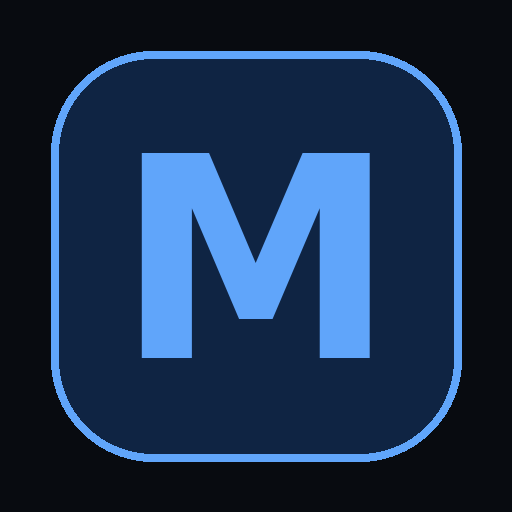
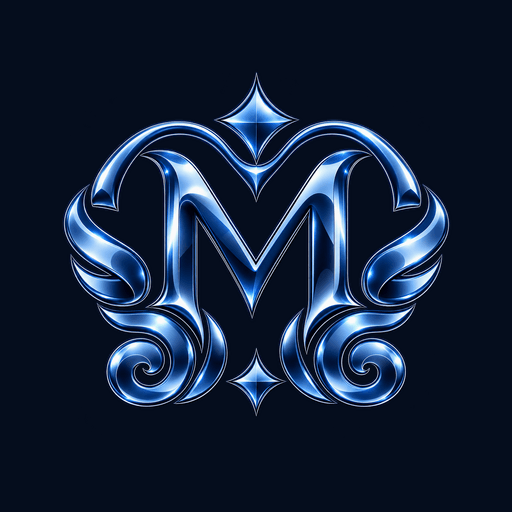
feat: apply new Manisa brand mark

diff --git a/apps/web/src/app/page.tsx b/apps/web/src/app/page.tsx
@@ -3,6 +3,7 @@ import Link from "next/link";
 import { after } from "next/server";
 import { ArrowUpRight, CalendarDays, Instagram, Mail, MapPin, Phone, Scissors, Sparkles } from "lucide-react";
 import { notFound } from "next/navigation";
+import { BrandLogo } from "@/components/brand-logo";
 import { CategoryIcon } from "@/components/category-icon";
 import { getCurrentUser } from "@/lib/auth";
 import { instagramConfigured } from "@/lib/env";
@@ -38,7 +39,7 @@ export async function StudioLanding() {
   const instagramPosts = connection?.posts || [];
 
   return <main className="min-h-screen overflow-hidden bg-[#f5eee6] text-[#30251f]" dir="ltr" lang="en" data-no-translate>
-    <header className="absolute inset-x-0 top-0 z-30 border-b border-white/10 bg-[#211713]/45 text-white shadow-[0_10px_35px_rgba(0,0,0,.12)] backdrop-blur-md"><div className="mx-auto flex max-w-7xl items-center justify-between px-5 py-4 sm:px-8 lg:px-10"><a className="flex items-center gap-3 text-white drop-shadow-sm" href="#top"><span className="flex size-11 items-center justify-center rounded-full bg-white shadow-lg"><Image alt="" height={30} src="/icon.svg" width={30}/></span><span className="text-lg font-semibold tracking-wide">{studio.name}</span></a><nav className="hidden gap-7 text-sm text-white/90 md:flex"><a href="#services">Services</a><a href="#work">Our work</a><a href="#studio">The studio</a><a href="#contact">Contact</a></nav><Link className="inline-flex min-h-10 items-center rounded-full bg-white px-5 text-sm font-semibold shadow-lg transition hover:bg-[#f4d3c0]" href={managementHref} style={{ color: "#30251f" }}>Login</Link></div></header>
+    <header className="absolute inset-x-0 top-0 z-30 border-b border-white/10 bg-[#211713]/45 text-white shadow-[0_10px_35px_rgba(0,0,0,.12)] backdrop-blur-md"><div className="mx-auto flex max-w-7xl items-center justify-between px-5 py-4 sm:px-8 lg:px-10"><a className="flex items-center gap-3 text-white drop-shadow-sm" href="#top"><span className="flex size-12 items-center justify-center rounded-2xl bg-[#071426]/95 shadow-lg ring-1 ring-white/20"><BrandLogo priority size={43}/></span><span className="text-lg font-semibold tracking-wide">{studio.name}</span></a><nav className="hidden gap-7 text-sm text-white/90 md:flex"><a href="#services">Services</a><a href="#work">Our work</a><a href="#studio">The studio</a><a href="#contact">Contact</a></nav><Link className="inline-flex min-h-10 items-center rounded-full bg-white px-5 text-sm font-semibold shadow-lg transition hover:bg-[#f4d3c0]" href={managementHref} style={{ color: "#30251f" }}>Login</Link></div></header>
     <section className="relative min-h-[48rem] bg-[#4b322c]" id="top"><Image alt="Hair stylist working with a client in a warm home studio" className="object-cover object-center" fill priority sizes="100vw" src="/landing/hair-styling.webp"/><div className="absolute inset-0 bg-gradient-to-r from-[#241511]/90 via-[#2b1c17]/60 to-transparent"/><div className="relative mx-auto flex min-h-[48rem] max-w-7xl items-end px-5 pb-20 pt-32 sm:px-8 sm:pb-24 lg:px-10"><div className="max-w-2xl text-white"><p className="mb-5 text-xs font-semibold uppercase tracking-[.28em] text-[#efd6c8]">Private hair & nail studio · Toronto</p><h1 className="font-serif text-5xl leading-[.98] tracking-[-.04em] sm:text-7xl lg:text-[5.6rem]">Beautiful work,<br/>made personal.</h1><p className="mt-7 max-w-xl text-base leading-8 text-white/75 sm:text-lg">{settings?.studioTagline || "Thoughtful hair and nail services in a calm home-studio setting—one appointment, one client, and every detail considered."}</p><div className="mt-9 flex flex-wrap gap-3"><a className="inline-flex min-h-12 items-center gap-2 rounded-full bg-[#f4d3c0] px-6 font-semibold text-[#3b251e] transition hover:bg-white" href={primaryHref}>{primaryLabel}<ArrowUpRight size={17}/></a><a className="inline-flex min-h-12 items-center rounded-full border border-white/35 px-6 font-semibold text-white backdrop-blur transition hover:bg-white/10" href="#services">Explore services</a></div></div></div></section>
     <section className="mx-auto grid max-w-7xl gap-12 px-5 py-20 sm:px-8 lg:grid-cols-[.9fr_1.1fr] lg:px-10 lg:py-28" id="studio"><div className="relative mx-auto aspect-[4/5] w-full max-w-lg"><Image alt="Professional manicure detail" className="rounded-[2.5rem] object-cover shadow-[0_35px_90px_rgba(78,51,42,.22)]" fill sizes="(max-width:1024px) 90vw, 42vw" src="/landing/manicure.webp"/><div className="absolute -bottom-5 -right-3 rounded-2xl bg-[#31483c] p-5 text-[#edf3ee] shadow-xl sm:-right-8"><Sparkles size={20}/><p className="mt-3 max-w-36 text-sm leading-6">Quiet appointments.<br/>Careful technique.<br/>Lasting details.</p></div></div><div className="flex flex-col justify-center lg:pl-10"><p className="text-xs font-semibold uppercase tracking-[.25em] text-[#9a5d48]">A studio that feels like you</p><h2 className="mt-5 font-serif text-4xl leading-tight tracking-[-.035em] sm:text-6xl">Hair, nails, and time that is truly yours.</h2><p className="mt-7 max-w-xl text-base leading-8 text-[#755f54]">{settings?.studioBiography || "Manisa is an appointment-only home studio for people who value a relaxed atmosphere and work tailored to them. From polished nails to refreshed hair, every visit is unhurried and personal."}</p><div className="mt-8 flex flex-wrap gap-5 text-sm text-[#634d43]"><span className="flex items-center gap-2"><CalendarDays size={17}/>Appointment only</span><span className="flex items-center gap-2"><MapPin size={17}/>{settings?.address || fallbackAddress}</span></div></div></section>
     <section className="bg-[#302a27] py-20 text-[#f8f1eb] lg:py-28" id="services"><div className="mx-auto max-w-7xl px-5 sm:px-8 lg:px-10"><div className="max-w-3xl"><p className="text-xs font-semibold uppercase tracking-[.25em] text-[#e8bca9]">Services</p><h2 className="mt-5 font-serif text-4xl tracking-[-.035em] sm:text-6xl">Made for real life,<br/>finished beautifully.</h2></div><div className="mt-12 grid gap-px overflow-hidden rounded-[2rem] bg-white/15 md:grid-cols-2 lg:grid-cols-3">{categories.map((category) => <article className="bg-[#302a27] p-7 sm:p-8" key={category.id}><span className="flex size-11 items-center justify-center rounded-full bg-white/8 text-[#f1c6b4]"><CategoryIcon name={category.icon} size={20}/></span><h3 className="mt-6 text-xl font-semibold" dir="auto">{category.name}</h3><p className="mt-3 min-h-12 text-sm leading-6 text-white/55" dir="auto">{category.description || `${category._count.services} services available.`}</p><div className="mt-5 space-y-2">{category.services.map((service) => <p className="flex items-center gap-2 text-sm text-white/75" dir="auto" key={service.id}><Scissors className="shrink-0 text-[#d9a995]" size={13}/>{service.name}</p>)}</div></article>)}{!categories.length && <p className="bg-[#302a27] p-10 text-white/60">The studio service menu is being prepared.</p>}</div></div></section>
@@ -54,5 +55,5 @@ export default async function Home() {
     prisma.user.count(),
   ]);
   if (studio && setupComplete) return <StudioLanding/>;
-  return <main className="flex min-h-screen items-center justify-center bg-[#f5eee6] px-5 text-[#30251f]" dir="ltr" lang="en"><section className="max-w-lg rounded-[2rem] bg-white p-8 text-center shadow-xl"><Sparkles className="mx-auto" size={28}/><h1 className="mt-5 font-serif text-4xl">Set up Manisa</h1><p className="mt-3 leading-7 text-[#755f54]">Create the sole studio owner and configure your studio.</p><Link className="mt-7 inline-flex min-h-12 items-center gap-2 rounded-full bg-[#30251f] px-6 font-semibold text-white" href={setupComplete ? "/login" : "/setup"}>{setupComplete ? "Sign in" : "Create studio owner"}<ArrowUpRight size={16}/></Link></section></main>;
+  return <main className="flex min-h-screen items-center justify-center bg-[#f5eee6] px-5 text-[#30251f]" dir="ltr" lang="en"><section className="max-w-lg rounded-[2rem] bg-white p-8 text-center shadow-xl"><span className="mx-auto flex size-20 items-center justify-center rounded-2xl bg-[#071426] shadow-lg"><BrandLogo priority size={72}/></span><h1 className="mt-5 font-serif text-4xl">Set up Manisa</h1><p className="mt-3 leading-7 text-[#755f54]">Create the sole studio owner and configure your studio.</p><Link className="mt-7 inline-flex min-h-12 items-center gap-2 rounded-full bg-[#30251f] px-6 font-semibold text-white" href={setupComplete ? "/login" : "/setup"}>{setupComplete ? "Sign in" : "Create studio owner"}<ArrowUpRight size={16}/></Link></section></main>;
 }

diff --git a/apps/web/src/app/invite/[token]/page.tsx b/apps/web/src/app/invite/[token]/page.tsx
@@ -1,6 +1,7 @@
 import { createHash } from "node:crypto";
 import Link from "next/link";
-import { CalendarClock, ShieldCheck, Sparkles } from "lucide-react";
+import { CalendarClock, ShieldCheck } from "lucide-react";
+import { BrandLogo } from "@/components/brand-logo";
 import { InvitationForm } from "@/components/invitation-form";
 import { prisma } from "@/lib/prisma";
 
@@ -9,5 +10,5 @@ export default async function InvitationPage({ params }: { params: Promise<{ tok
   const invitation = await prisma.invitation.findUnique({ where: { tokenHash: createHash("sha256").update(token).digest("hex") }, include: { invitedBy: { select: { name: true } } } });
   const valid = invitation && !invitation.acceptedAt && !invitation.revokedAt && invitation.expiresAt > new Date();
   const existingPasswordAccount = valid ? Boolean((await prisma.user.findUnique({ where: { email: invitation.email }, select: { passwordHash: true } }))?.passwordHash) : false;
-  return <main className="relative flex min-h-screen items-center justify-center overflow-hidden p-4 sm:p-6"><div className="pointer-events-none absolute inset-0 bg-[radial-gradient(circle_at_top_left,rgba(37,99,235,.18),transparent_42%),radial-gradient(circle_at_bottom_right,rgba(14,165,233,.1),transparent_38%)]"/><section className="relative w-full max-w-lg overflow-hidden rounded-3xl border border-blue-300/15 bg-[#0a111d]/95 shadow-2xl"><header className="border-b border-white/8 bg-gradient-to-br from-[#102347] to-[#0b1628] p-6 sm:p-8"><span className="flex size-12 items-center justify-center rounded-2xl border border-blue-300/20 bg-blue-400/10 text-blue-200"><Sparkles size={22}/></span>{valid ? <><p className="mt-5 text-xs font-semibold uppercase tracking-[.18em] text-blue-300">Studio invitation</p><h1 className="mt-2 text-2xl font-semibold sm:text-3xl">Join Manisa</h1><div className="mt-4 flex flex-wrap gap-2 text-xs text-slate-300"><span className="badge"><ShieldCheck size={13}/>{invitation.role.toLowerCase()}</span><span className="badge"><CalendarClock size={13}/>Valid for 72 hours</span></div></> : <><h1 className="mt-5 text-2xl font-semibold">Invitation unavailable</h1><p className="mt-2 text-sm text-slate-400">This link expired, was revoked, or has already been used.</p></>}</header><div className="p-6 sm:p-8">{valid ? <><p className="text-sm text-slate-400">Invited by {invitation.invitedBy.name}. Existing users can enter their current password; new users will create one.</p><InvitationForm email={invitation.email} existingPasswordAccount={existingPasswordAccount} token={token}/></> : <Link className="button w-full" href="/login">Return to sign in</Link>}</div></section></main>;
+  return <main className="relative flex min-h-screen items-center justify-center overflow-hidden p-4 sm:p-6"><div className="pointer-events-none absolute inset-0 bg-[radial-gradient(circle_at_top_left,rgba(37,99,235,.18),transparent_42%),radial-gradient(circle_at_bottom_right,rgba(14,165,233,.1),transparent_38%)]"/><section className="relative w-full max-w-lg overflow-hidden rounded-3xl border border-blue-300/15 bg-[#0a111d]/95 shadow-2xl"><header className="border-b border-white/8 bg-gradient-to-br from-[#102347] to-[#0b1628] p-6 sm:p-8"><Link aria-label="Manisa home" className="flex size-14 items-center justify-center rounded-2xl bg-[#071426] shadow-[inset_0_1px_rgba(255,255,255,.14),0_10px_28px_rgba(0,0,0,.28)]" href="/"><BrandLogo priority size={51}/></Link>{valid ? <><p className="mt-5 text-xs font-semibold uppercase tracking-[.18em] text-blue-300">Studio invitation</p><h1 className="mt-2 text-2xl font-semibold sm:text-3xl">Join Manisa</h1><div className="mt-4 flex flex-wrap gap-2 text-xs text-slate-300"><span className="badge"><ShieldCheck size={13}/>{invitation.role.toLowerCase()}</span><span className="badge"><CalendarClock size={13}/>Valid for 72 hours</span></div></> : <><h1 className="mt-5 text-2xl font-semibold">Invitation unavailable</h1><p className="mt-2 text-sm text-slate-400">This link expired, was revoked, or has already been used.</p></>}</header><div className="p-6 sm:p-8">{valid ? <><p className="text-sm text-slate-400">Invited by {invitation.invitedBy.name}. Existing users can enter their current password; new users will create one.</p><InvitationForm email={invitation.email} existingPasswordAccount={existingPasswordAccount} token={token}/></> : <Link className="button w-full" href="/login">Return to sign in</Link>}</div></section></main>;
 }

diff --git a/apps/web/src/components/app-shell.tsx b/apps/web/src/components/app-shell.tsx
@@ -1,6 +1,7 @@
 import Link from "next/link";
-import { CalendarPlus, LogOut, Settings2, Sparkles } from "lucide-react";
+import { CalendarPlus, LogOut, Settings2 } from "lucide-react";
 import { DesktopNavigation, MobileNavigation } from "@/components/app-navigation";
+import { BrandLogo } from "@/components/brand-logo";
 import { LocaleRuntime } from "@/components/locale-runtime";
 import { NotificationCenter } from "@/components/notification-center";
 import { PageSwipeNavigation } from "@/components/page-swipe-navigation";
@@ -17,13 +18,13 @@ export function AppShell({ children, locale, userName, businessName, mobileNavOr
   const mobileOrder = parseMobileNavigation(mobileNavOrder);
   return <div className="app-background min-h-screen md:grid md:grid-cols-[17rem_1fr]" dir={locale === "fa" ? "rtl" : "ltr"} lang={locale}>
     <aside className="sticky top-0 hidden h-screen border-e border-white/8 bg-[#090d13]/95 p-4 md:flex md:flex-col">
-      <Link href="/report" prefetch={false} className="flex h-14 items-center gap-3 px-2"><span className="flex size-9 items-center justify-center rounded-xl border border-blue-400/25 bg-blue-500/10 text-blue-300 shadow-[inset_0_1px_rgba(255,255,255,.12)]"><Sparkles size={18}/></span><span className="truncate font-semibold">{businessName}</span></Link>
+      <Link href="/report" prefetch={false} className="flex h-14 items-center gap-3 px-2"><span className="flex size-10 shrink-0 items-center justify-center rounded-xl bg-[#071426] shadow-[inset_0_1px_rgba(255,255,255,.14),0_8px_24px_rgba(0,0,0,.3)]"><BrandLogo size={36}/></span><span className="truncate font-semibold">{businessName}</span></Link>
       <DesktopNavigation locale={locale} permissions={permissions}/>
       <div className="mt-auto border-t border-white/8 pt-4"><p className="truncate px-3 text-sm font-medium text-slate-300">{userName}</p><form action={logout}><button className="mt-2 flex w-full items-center gap-3 rounded-xl px-3 py-2.5 text-sm text-slate-500 hover:bg-white/[0.05] hover:text-white"><LogOut size={17}/>{t.signOut}</button></form></div>
     </aside>
     <div className="min-w-0">
       <header className="sticky top-0 z-30 flex h-16 items-center justify-between border-b border-white/8 bg-[#080b10]/88 px-4 backdrop-blur-xl md:px-8">
-        <Link href="/report" prefetch={false} className="flex min-w-0 items-center gap-2 font-semibold md:hidden"><span className="flex size-8 shrink-0 items-center justify-center rounded-lg border border-blue-400/25 bg-blue-500/10 text-blue-300"><Sparkles size={16}/></span><span className="truncate">{businessName}</span></Link>
+        <Link href="/report" prefetch={false} className="flex min-w-0 items-center gap-2 font-semibold md:hidden"><span className="flex size-9 shrink-0 items-center justify-center rounded-lg bg-[#071426]"><BrandLogo size={32}/></span><span className="truncate">{businessName}</span></Link>
         <div className="hidden text-sm text-slate-500 md:block">{new Intl.DateTimeFormat(intlLocale(locale), { dateStyle: "full" }).format(new Date())}</div>
         <div className="flex items-center gap-2"><GlobalSearch permissions={permissions}/><NotificationCenter items={notifications} locale={locale} timezone={timezone}/><Link aria-label={t.settings} className="header-profile" href="/settings" prefetch={false} title={`${t.settings} · ${userName}`}><Settings2 size={17}/><span className="hidden sm:inline">{t.settings}</span></Link><Link href="/appointments/new" prefetch={false} className="button appointment-cta h-10 min-h-10 px-3 sm:px-4"><CalendarPlus size={17}/><span className="hidden min-[520px]:inline">{t.newAppointment}</span></Link></div>
       </header>

diff --git a/apps/web/src/app/(app)/settings/page.tsx b/apps/web/src/app/(app)/settings/page.tsx
@@ -1,5 +1,6 @@
 import Link from "next/link";
-import { ArrowLeftRight, CalendarClock, CalendarSync, ChevronRight, GitFork, Images, Instagram, Layers3, LogOut, Settings2, ShieldCheck, SlidersHorizontal, Sparkles, SwatchBook, Trash2, UserRound, UsersRound, WalletCards, UserCog } from "lucide-react";
+import { ArrowLeftRight, CalendarClock, CalendarSync, ChevronRight, GitFork, Images, Instagram, Layers3, LogOut, Settings2, ShieldCheck, SlidersHorizontal, SwatchBook, Trash2, UserRound, UsersRound, WalletCards, UserCog } from "lucide-react";
+import { BrandLogo } from "@/components/brand-logo";
 import { PageHeading } from "@/components/page-heading";
 import { requireUser } from "@/lib/auth";
 import { prisma } from "@/lib/prisma";
@@ -55,6 +56,6 @@ export default async function SettingsPage() {
       {groups.map((group) => { const visibleItems = group.items.filter(([href]) => !requiredPermission[href] || hasBusinessPermission(user.role, user.permissionOverrides, requiredPermission[href])); return visibleItems.length ? <section key={group.title}><h2 className="mb-2 px-2 text-xs font-semibold uppercase tracking-[.16em] text-slate-500">{group.title}</h2><div className="overflow-hidden rounded-2xl border border-white/10 bg-[#0d131d] shadow-[0_16px_40px_rgba(0,0,0,.16)]">{visibleItems.map(([href, label, , Icon], index) => <Link className={`group flex items-center gap-3 px-4 py-3.5 transition hover:bg-blue-500/[0.07] active:bg-blue-500/[0.12] sm:px-5 ${index ? "border-t border-white/8" : ""}`} href={contextualDestinations.has(href) ? `${href}?from=settings` : href} key={href}><span className="flex size-10 shrink-0 items-center justify-center rounded-xl border border-blue-400/12 bg-blue-500/8 text-blue-300"><Icon size={18}/></span><span className="min-w-0 flex-1 text-sm font-semibold text-slate-100">{label}</span><ChevronRight className="shrink-0 text-slate-600 transition group-hover:translate-x-0.5 group-hover:text-blue-300 rtl:rotate-180" size={18}/></Link>)}</div></section> : null; })}
     </div>
     <form action={logout} className="mt-5"><button className="flex w-full items-center gap-3 rounded-2xl border border-rose-400/15 bg-rose-500/[0.045] px-4 py-3.5 text-start text-sm font-semibold text-rose-200 transition active:scale-[.99] active:bg-rose-500/10 sm:px-5"><span className="flex size-10 shrink-0 items-center justify-center rounded-xl bg-rose-500/10"><LogOut size={18}/></span><span className="flex-1">Sign out</span><ChevronRight className="shrink-0 opacity-45 rtl:rotate-180" size={18}/></button></form>
-    <div className="mt-6 flex items-center justify-center gap-2 text-xs text-slate-600"><Sparkles size={13}/>Manisa studio management</div>
+    <div className="mt-6 flex items-center justify-center gap-2 text-xs text-slate-600"><BrandLogo size={20}/>Manisa studio management</div>
   </>;
 }

diff --git a/apps/web/src/app/login/page.tsx b/apps/web/src/app/login/page.tsx
@@ -4,7 +4,7 @@ import { GoogleAuthButton } from "@/components/google-auth-button";
 import { getCurrentUser } from "@/lib/auth";
 import { googleAuthConfigured } from "@/lib/env";
 import Link from "next/link";
-import { Sparkles } from "lucide-react";
+import { BrandLogo } from "@/components/brand-logo";
 
 const googleErrors: Record<string, string> = { "not-configured": "Google sign-in is not configured yet.", cancelled: "Google sign-in was cancelled.", "invalid-state": "That Google sign-in request expired. Please try again.", "token-exchange": "Google could not complete sign-in.", profile: "Your Google profile could not be read.", "unverified-email": "Use a verified Google email address.", inactive: "This account is inactive.", "email-linked": "That email is linked to another Google account.", "signup-disabled": "Google sign-up is disabled. Ask the administrator to enable it or link your existing email.", failed: "Google sign-in failed. Please try again." };
 
@@ -21,4 +21,4 @@ export default async function LoginPage({ searchParams }: { searchParams: Promis
   </main>;
 }
 
-function BrandLink() { return <Link className="inline-flex items-center gap-3" href="/" aria-label="Manisa home"><span className="flex size-10 items-center justify-center rounded-xl border border-blue-300/20 bg-gradient-to-br from-[#19345f] to-[#0c1930] text-blue-200"><Sparkles size={19}/></span><span className="text-lg font-semibold">Manisa</span></Link>; }
+function BrandLink() { return <Link className="inline-flex items-center gap-3" href="/" aria-label="Manisa home"><span className="flex size-12 items-center justify-center rounded-xl bg-[#071426] shadow-[inset_0_1px_rgba(255,255,255,.14),0_10px_28px_rgba(0,0,0,.28)]"><BrandLogo priority size={44}/></span><span className="text-lg font-semibold">Manisa</span></Link>; }

diff --git a/apps/web/src/app/setup/page.tsx b/apps/web/src/app/setup/page.tsx
@@ -1,8 +1,9 @@
 import { redirect } from "next/navigation";
+import { BrandLogo } from "@/components/brand-logo";
 import { SetupForm } from "@/components/setup-form";
 import { prisma } from "@/lib/prisma";
 
 export default async function SetupPage() {
   if (await prisma.user.count()) redirect("/login");
-  return <main className="flex min-h-screen items-center justify-center p-5"><section className="w-full max-w-md rounded-3xl border border-white/10 bg-[#0d131d] p-6 shadow-2xl sm:p-8"><p className="text-sm font-semibold text-blue-300">First deployment</p><h1 className="mt-2 text-3xl font-semibold">Set up Manisa</h1><p className="mt-3 text-sm leading-6 text-slate-400">Create the sole studio owner account and configure your studio.</p><SetupForm/></section></main>;
+  return <main className="flex min-h-screen items-center justify-center p-5"><section className="w-full max-w-md rounded-3xl border border-white/10 bg-[#0d131d] p-6 shadow-2xl sm:p-8"><span className="mb-6 flex size-16 items-center justify-center rounded-2xl bg-[#071426] shadow-[inset_0_1px_rgba(255,255,255,.14),0_10px_28px_rgba(0,0,0,.28)]"><BrandLogo priority size={58}/></span><p className="text-sm font-semibold text-blue-300">First deployment</p><h1 className="mt-2 text-3xl font-semibold">Set up Manisa</h1><p className="mt-3 text-sm leading-6 text-slate-400">Create the sole studio owner account and configure your studio.</p><SetupForm/></section></main>;
 }

diff --git a/apps/web/src/app/manifest.ts b/apps/web/src/app/manifest.ts
@@ -1,2 +1,2 @@
 import type { MetadataRoute } from "next";
-export default function manifest(): MetadataRoute.Manifest { return { name:"Manisa Hair & Nail Studio", short_name:"Manisa", description:"Studio management for customers, appointments, payments, media, and reporting.", start_url:"/", display:"standalone", background_color:"#080b10", theme_color:"#080b10", icons:[{src:"/icon-192.png",sizes:"192x192",type:"image/png",purpose:"any"},{src:"/icon-512.png",sizes:"512x512",type:"image/png",purpose:"maskable"},{src:"/icon.svg",sizes:"any",type:"image/svg+xml",purpose:"any"}] }; }
+export default function manifest(): MetadataRoute.Manifest { return { name:"Manisa Hair & Nail Studio", short_name:"Manisa", description:"Studio management for customers, appointments, payments, media, and reporting.", start_url:"/", display:"standalone", background_color:"#080b10", theme_color:"#080b10", icons:[{src:"/icon-192.png",sizes:"192x192",type:"image/png",purpose:"any"},{src:"/icon-512.png",sizes:"512x512",type:"image/png",purpose:"maskable"}] }; }

diff --git a/apps/web/src/app/layout.tsx b/apps/web/src/app/layout.tsx
@@ -7,7 +7,14 @@ import "./globals.css";
 export const metadata: Metadata = {
   title: "Manisa — Hair & Nail Studio",
   description: "Manisa home hair-and-nail studio and its private appointment management application.",
-  icons: { icon: [{ url: "/favicon.ico", sizes: "any" }, { url: "/icon.svg", type: "image/svg+xml" }], apple: "/icon-192.png" },
+  icons: {
+    icon: [
+      { url: "/favicon.ico", sizes: "16x16 32x32 48x48" },
+      { url: "/favicon-32.png", sizes: "32x32", type: "image/png" },
+    ],
+    shortcut: "/favicon.ico",
+    apple: [{ url: "/apple-touch-icon.png", sizes: "180x180", type: "image/png" }],
+  },
 };
 
 export const viewport = { themeColor: "#080b10", colorScheme: "dark" };

diff --git a/apps/web/src/components/brand-logo.tsx b/apps/web/src/components/brand-logo.tsx
@@ -1,0 +1,24 @@
+import Image from "next/image";
+
+export function BrandLogo({
+  size = 40,
+  className = "",
+  priority = false,
+  alt = "",
+}: {
+  size?: number;
+  className?: string;
+  priority?: boolean;
+  alt?: string;
+}) {
+  return (
+    <Image
+      alt={alt}
+      className={`shrink-0 object-contain ${className}`}
+      height={size}
+      priority={priority}
+      src="/brand/manisa-logo.webp"
+      width={size}
+    />
+  );
+}
